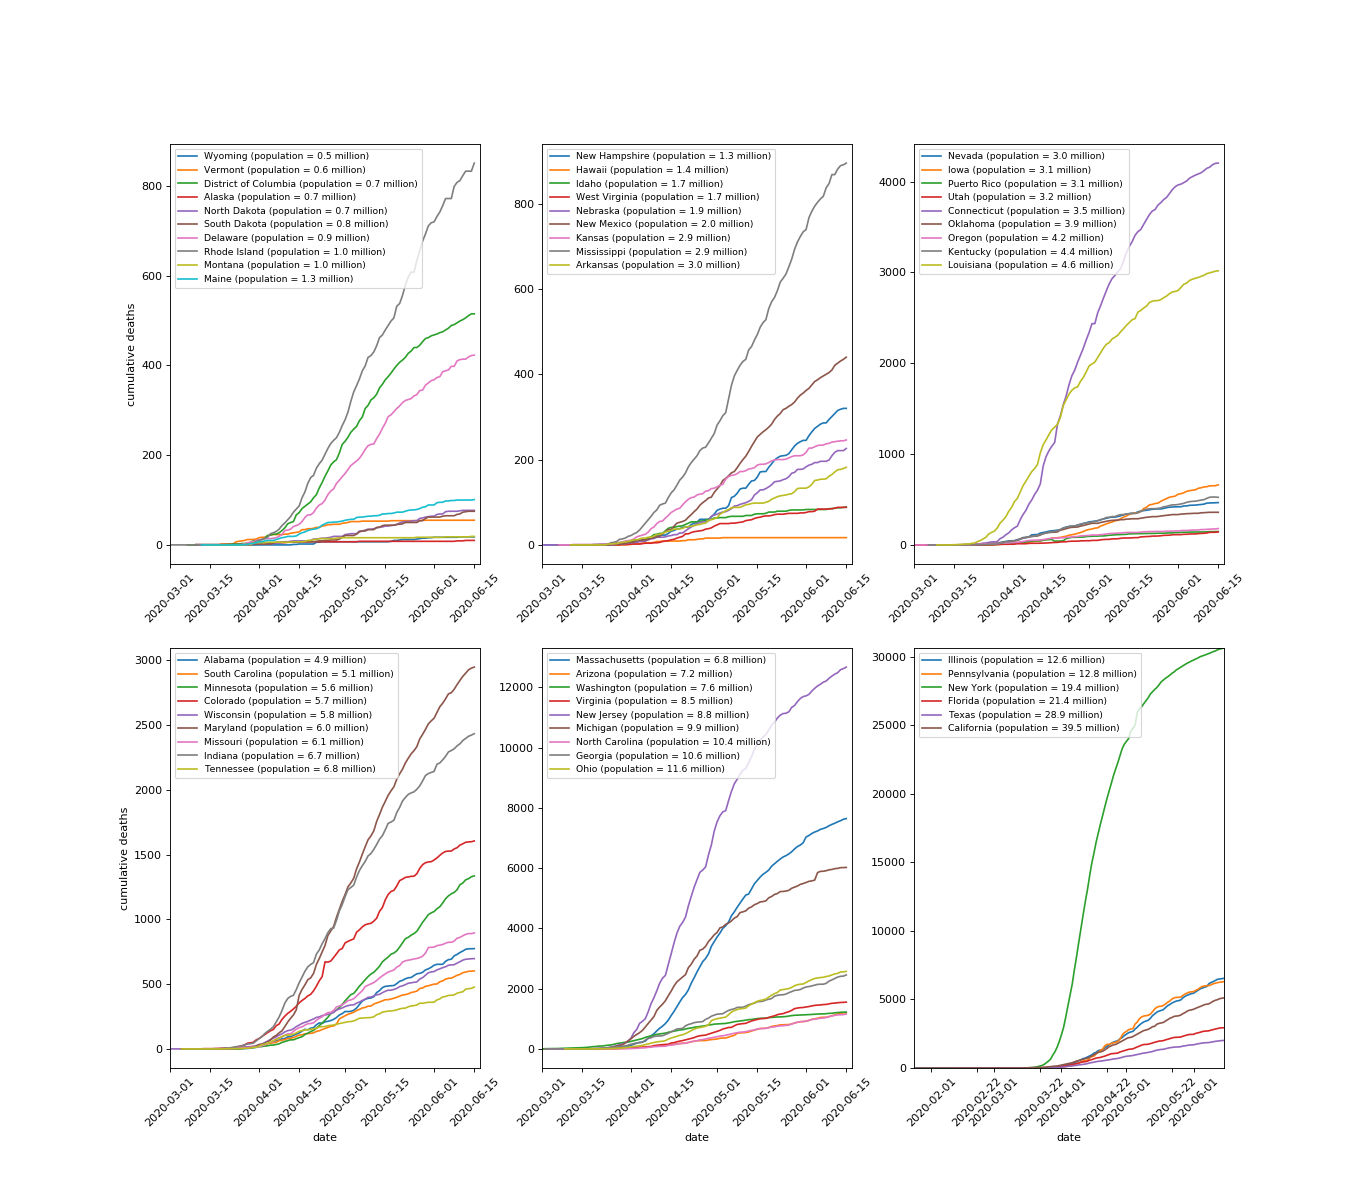
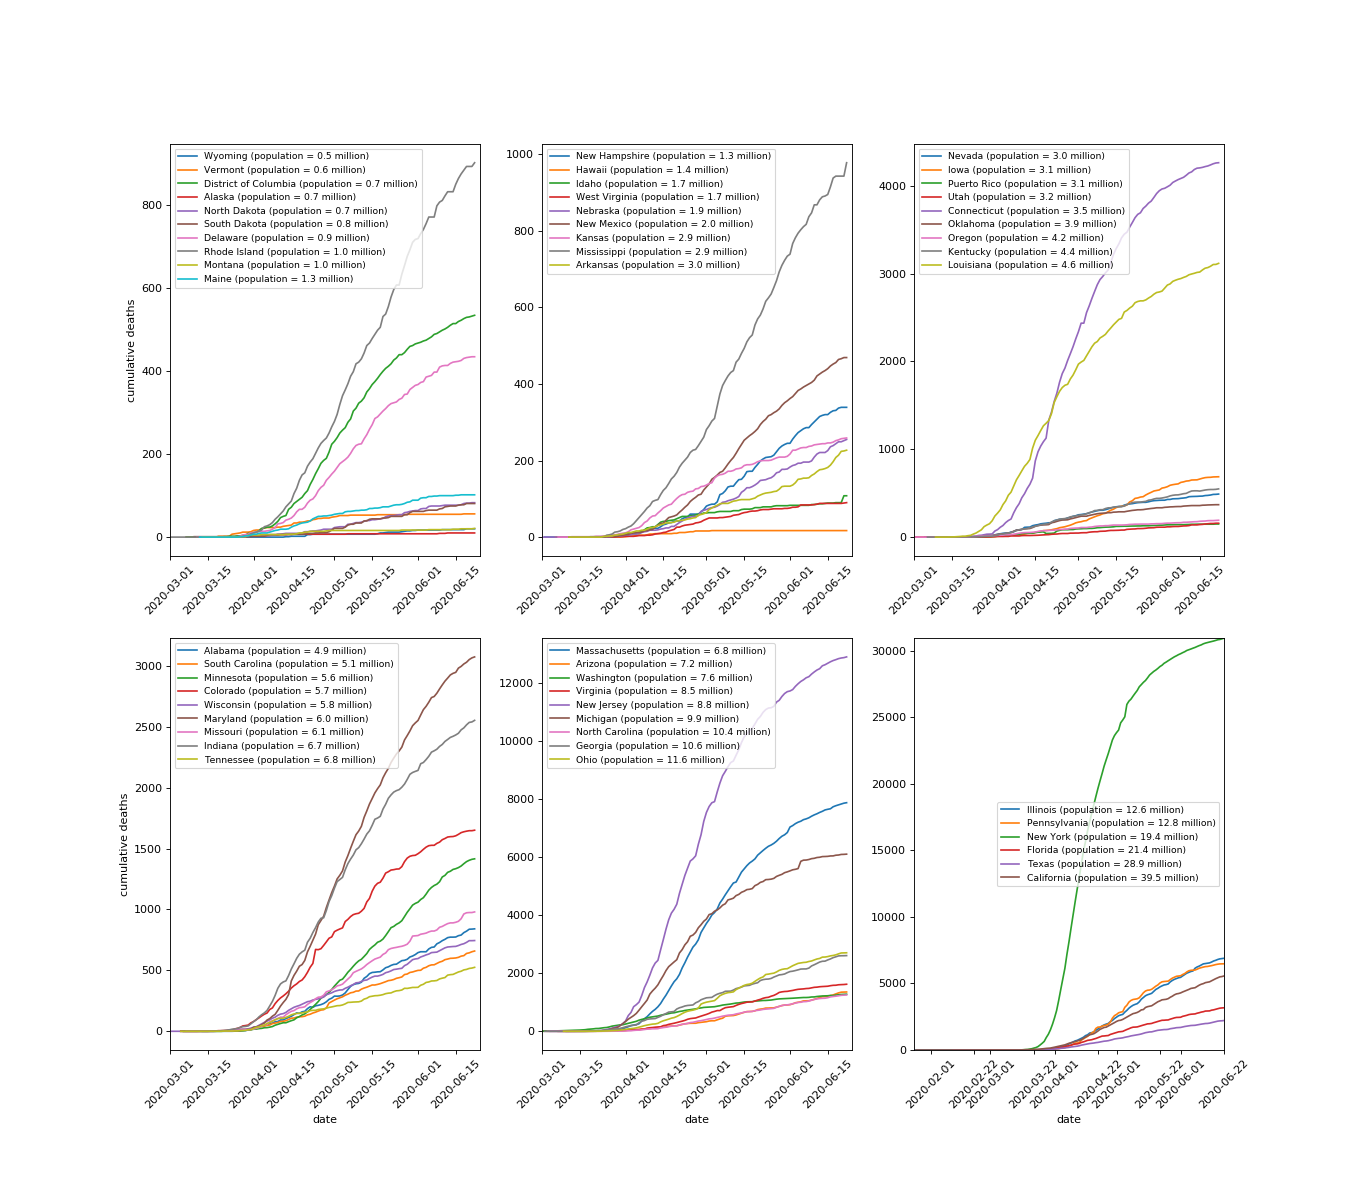
added new graphs: new cases by day

diff --git a/mkfigs.py b/mkfigs.py
@@ -17,102 +17,110 @@ n=6
 for norm in [False, True]:
     for log_scale in [False, True]:
         for interest in ["deaths", "cases"]:
-            #%%setup
-            #%matplotlib qt
-            plt.close("all")
-            #get covid info
-            r=requests.get("https://raw.githubusercontent.com/nytimes/covid-19-data/master/us-states.csv")
-            cov_sheet=io.StringIO(r.text)
-            cov_sheet=pandas.read_csv(cov_sheet)
-            cov_sheet=cov_sheet.sort_values(by="state")
-            #get state pop info
-            #pop_sheet=pandas.read_excel('nst-est2019-01.xlsx')
-            response=requests.get("https://www2.census.gov/programs-surveys/popest/tables/2010-2019/state/totals/nst-est2019-01.xlsx?#")
-            bytes_file_obj = io.BytesIO()
-            bytes_file_obj.write(response.content)
-            bytes_file_obj.seek(0) #set file object to start
-            
-            #read file into pandas dataframe
-            pop_sheet = pandas.read_excel(bytes_file_obj)
-            
-            #deal with state sheet
-            state_names=np.asarray(pop_sheet.iloc[8:59,0]).astype(str)
-            state_pops=np.asarray(pop_sheet.iloc[8:59,12]).astype(int)
-            state_names=np.asarray([e[1:] for e in state_names])
-            state_names=np.append(state_names,'Puerto Rico')
-            state_pops=np.append(state_pops,3193694)
-            #sort states by population
-            bypop=np.argsort(state_pops)
-            state_pops=state_pops[bypop]
-            state_names=state_names[bypop]
-            
-            statesper=np.ceil(len(state_names)/n)#states per graph
-            labelstring="cumulative " + interest + norm*" per population" +log_scale*" (log-10 scale)"
-            subind=1
-            these_states=[] #variable keeps state names by plot for the legend
-            plt.figure(figsize=(17, 15), dpi= 80, facecolor='w', edgecolor='k')
-            most=0
-            for i in range(len(state_names)):
-                #if starting new subgraph, set the subplot
-                if len(these_states)==0:
-                    plt.subplot(2,np.ceil(n/2),subind)
+            for cumulate in [True, False]:
+                #%%setup
+                #%matplotlib qt
+                plt.close("all")
+                #get covid info
+                r=requests.get("https://raw.githubusercontent.com/nytimes/covid-19-data/master/us-states.csv")
+                cov_sheet=io.StringIO(r.text)
+                cov_sheet=pandas.read_csv(cov_sheet)
+                cov_sheet=cov_sheet.sort_values(by="state")
+                #get state pop info
+                #pop_sheet=pandas.read_excel('nst-est2019-01.xlsx')
+                response=requests.get("https://www2.census.gov/programs-surveys/popest/tables/2010-2019/state/totals/nst-est2019-01.xlsx?#")
+                bytes_file_obj = io.BytesIO()
+                bytes_file_obj.write(response.content)
+                bytes_file_obj.seek(0) #set file object to start
                 
-                state=state_names[i]
-                pop=state_pops[i]
-                if leg_pop:
-                    these_states.append(state + " (population = " + str(int(pop/100000)/10) +" million)")
-                else:
-                    these_states.append(state)
-                    
-                #get only this date's info
-                cov_state=cov_sheet[cov_sheet.state==state]
-                #sort by date to get proper order
-                cov_state=cov_state.sort_values("date")
-                dates=np.asarray(cov_state["date"])
-                #convert from string to datetime format
-                dates=np.asarray([datetime.date(int(e[:4]),int(e[5:7]),int(e[8:])) for e in dates])
-                #take parameter of interest. can either be cases or deaths
-                #to_plot=np.cumsum(np.asarray(cov_state[interest]))
-                to_plot=(np.asarray(cov_state[interest]))
-                #do we want to normalize
-                if norm:
-                    to_plot=to_plot/pop
-                if log_scale:
-                    to_plot=np.log10(to_plot)
-                    
-                plt.plot(dates,(to_plot))
+                #read file into pandas dataframe
+                pop_sheet = pandas.read_excel(bytes_file_obj)
                 
-                most=np.max([most,np.max(to_plot)])
+                #deal with state sheet
+                state_names=np.asarray(pop_sheet.iloc[8:59,0]).astype(str)
+                state_pops=np.asarray(pop_sheet.iloc[8:59,12]).astype(int)
+                state_names=np.asarray([e[1:] for e in state_names])
+                state_names=np.append(state_names,'Puerto Rico')
+                state_pops=np.append(state_pops,3193694)
+                #sort states by population
+                bypop=np.argsort(state_pops)
+                state_pops=state_pops[bypop]
+                state_names=state_names[bypop]
                 
-                if ((i%(statesper) == 0) & (i!=0)):
-                    plt.legend(np.asarray(these_states),fontsize='small')
-                    if (subind>np.ceil(n/2)):
-                        plt.xlabel("date")
-                    if (subind%np.ceil(n/2)==1):
-                        plt.ylabel(labelstring)
-                    plt.xticks(rotation=45)
-                    #plt.ylim((0,ylimit))
-                    these_states=[]
-                    subind+=1
+                statesper=np.ceil(len(state_names)/n)#states per graph
+                labelstring=(not cumulate)*"3 day avg new "  + cumulate*"cumulative " + interest + norm*" per population" +log_scale*" (log-10 scale)"
+                subind=1
+                these_states=[] #variable keeps state names by plot for the legend
+                plt.figure(figsize=(17, 15), dpi= 80, facecolor='w', edgecolor='k')
+                most=0
+                for i in range(len(state_names)):
+                    #if starting new subgraph, set the subplot
+                    if len(these_states)==0:
+                        plt.subplot(2,np.ceil(n/2),subind)
                     
+                    state=state_names[i]
+                    pop=state_pops[i]
+                    if leg_pop:
+                        these_states.append(state + " (population = " + str(int(pop/100000)/10) +" million)")
+                    else:
+                        these_states.append(state)
+                        
+                    #get only this date's info
+                    cov_state=cov_sheet[cov_sheet.state==state]
+                    #sort by date to get proper order
+                    cov_state=cov_state.sort_values("date")
+                    dates=np.asarray(cov_state["date"])
+                    #convert from string to datetime format
+                    dates=np.asarray([datetime.date(int(e[:4]),int(e[5:7]),int(e[8:])) for e in dates])
+                    #take parameter of interest. can either be cases or deaths
+                    #to_plot=np.cumsum(np.asarray(cov_state[interest]))
+                    to_plot=(np.asarray(cov_state[interest]))
+                    if not cumulate:
+                        change=np.diff(to_plot)
+                        dates=dates[1:]
+                        to_plot = np.convolve(change,[1/3,1/3,1/3],'valid')
+                        dates=dates[2:]
+                        
+                    
+                    #do we want to normalize
+                    if norm:
+                        to_plot=to_plot/pop
+                    if log_scale:
+                        to_plot=np.log10(to_plot)
+                        
+                    plt.plot(dates,(to_plot))
+                    
+                    most=np.max([most,np.max(to_plot)])
+                    
+                    if ((i%(statesper) == 0) & (i!=0)):
+                        plt.legend(np.asarray(these_states),fontsize='small')
+                        if (subind>np.ceil(n/2)):
+                            plt.xlabel("date")
+                        if (subind%np.ceil(n/2)==1):
+                            plt.ylabel(labelstring)
+                        plt.xticks(rotation=45)
+                        #plt.ylim((0,ylimit))
+                        these_states=[]
+                        subind+=1
+                        
+                    
+                if len(these_states)!=0:
+                        plt.legend(np.asarray(these_states),fontsize='small')
+                        plt.xticks(rotation=45)
+                        if (subind>np.ceil(n/2)):
+                            plt.xlabel("date")
+                        if (subind%np.ceil(n/2)==1):
+                            plt.ylabel(labelstring)
+                        plt.autoscale(tight=True)
+                        #plt.ylim((0,ylimit))
+                        
+                for i in range(n):
+                    i=i+1
+                    ax=plt.subplot(2,np.ceil(n/2),i)    
+                    #ax.set_ylim(top= most*1.2)
+                    ax.set_xlim(left=datetime.date(2020,3,1),right=datetime.date.today())
                 
-            if len(these_states)!=0:
-                    plt.legend(np.asarray(these_states),fontsize='small')
-                    plt.xticks(rotation=45)
-                    if (subind>np.ceil(n/2)):
-                        plt.xlabel("date")
-                    if (subind%np.ceil(n/2)==1):
-                        plt.ylabel(labelstring)
-                    plt.autoscale(tight=True)
-                    #plt.ylim((0,ylimit))
-                    
-            for i in range(n):
-                i=i+1
-                ax=plt.subplot(2,np.ceil(n/2),i)    
-                #ax.set_ylim(top= most*1.2)
-                ax.set_xlim(left=datetime.date(2020,3,1),right=datetime.date.today())
-            
-            #plt.show()
-            
-            plt.autoscale(tight=True)
-            plt.savefig("figures/"+labelstring+".png")
+                #plt.show()
+                
+                plt.autoscale(tight=True)
+                plt.savefig("figures/"+labelstring+".png")
